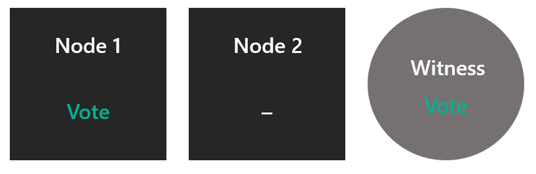
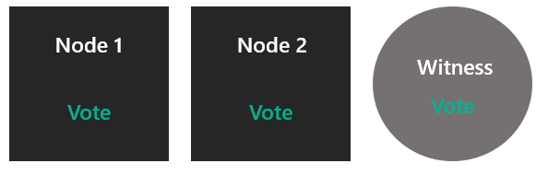
adding steven's fixes

diff --git a/WindowsServerDocs/storage/storage-spaces/understand-quorum.md b/WindowsServerDocs/storage/storage-spaces/understand-quorum.md
@@ -242,13 +242,13 @@ The table below gives an overview of the Pool Quorum outcomes per scenario:
 
 ## How Pool Quorum Works
 
-When drives fail, or when some subset of drives loses contact with another subset, surviving drives need to verify that they constitute the *majority* of the pool to remain online. If they can’t verify that, they’ll go offline.
+When drives fail, or when some subset of drives loses contact with another subset, surviving drives need to verify that they constitute the *majority* of the pool to remain online. If they can’t verify that, they’ll go offline. The pool is the entity that goes offline or stays online based on whether it has enough disks for quorum (50% + 1). The pool resource owner (active cluster node) can be the +1.
 
 But pool quorum works differently from cluster quorum in the following ways:
 
 - the pool uses one node in the cluster as a witness as a tie-breaker to survive half of drives gone (this node that is the pool resource owner)
-- pool quorum does NOT have dynamic quorum
-- pool quorum does NOT implement its own version of removing a vote
+- the pool does NOT have dynamic quorum
+- the pool does NOT implement its own version of removing a vote
 
 ### Examples
 
@@ -273,11 +273,11 @@ But pool quorum works differently from cluster quorum in the following ways:
 ![Pool Quorum 3](media/understand-quorum/pool-3.png)
 
 - Can survive one server failure: <strong>Yes</strong>.
-- Can survive one server failure, then another: <strong>No</strong>.
-- Can survive two server failures at once: <strong>No</strong>. 
+- Can survive one server failure, then another: <strong>Depends </strong>(cannot survive if both nodes 3 and 4 go down, but can survive all other scenarios.
+- Can survive two server failures at once: <strong>Depends </strong>(cannot survive if both nodes 3 and 4 go down, but can survive all other scenarios.
 
 ### Therefore, our guidance is:
 
 - Ensure that each node in your cluster is symmetrical (each node has the same number of drives)
-- Enable 3-way mirror so that you can tolerate a 2 node failure and keep the virtual disks online
-- When a node goes down, diagnose it immediately and attempt to fix it quickly since you are more at risk of losing data with multiple failures.
+- Enable 3-way mirror or dual parity so that you can tolerate a node failures and keep the virtual disks online. See our [volume guidance page](https://docs.microsoft.com/en-us/windows-server/storage/storage-spaces/plan-volumes) for more details.
+- If more than 2 nodes are down, or 2 nodes and a disk on another node are down, volumes may not have access to all 3 copies of their data, and therefore be taken offline and be unavailable. It’s recommended to bring the servers back or replace the disks quickly to ensure the most resiliency for all the data in the volume.
